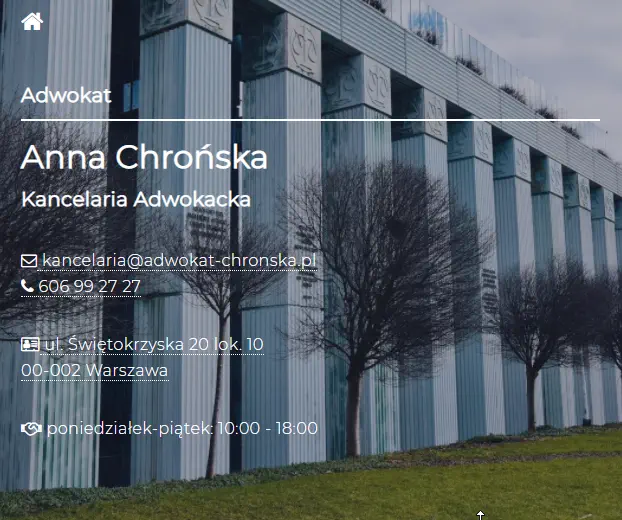
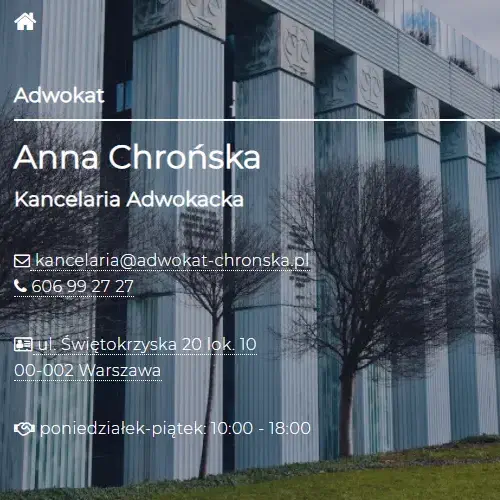
Change preview image proportions to 1:1

diff --git a/index.html b/index.html
@@ -26,8 +26,8 @@
 		<meta property="og:description" content="Kancelaria adwokacka prowadzi sprawy zarówno klientów indywidualnych, jak i firm. Kompleksowe usługi prawne, porady prawne, sporządzanie opinii prawnych, reprezentacja Klientów przed sądami i stosownymi instytucjami." />
 		<meta property="og:image" content="https://www.adwokat.chronska.pl/images/og-preview.webp" />
 		<meta property="og:image:secure_url" content="https://www.adwokat.chronska.pl/images/og-preview.webp" />
-		<meta property="og:image:width" content="622" />
-		<meta property="og:image:height" content="520" />
+		<meta property="og:image:width" content="500" />
+		<meta property="og:image:height" content="500" />
 		<meta property="og:image:alt" content="generowanie podglądu linka" />
 		<meta property="og:locale" content="pl_PL" />
 		<meta property="og:updated_time" content="2021-04-18T16:06:00+00:00" />
